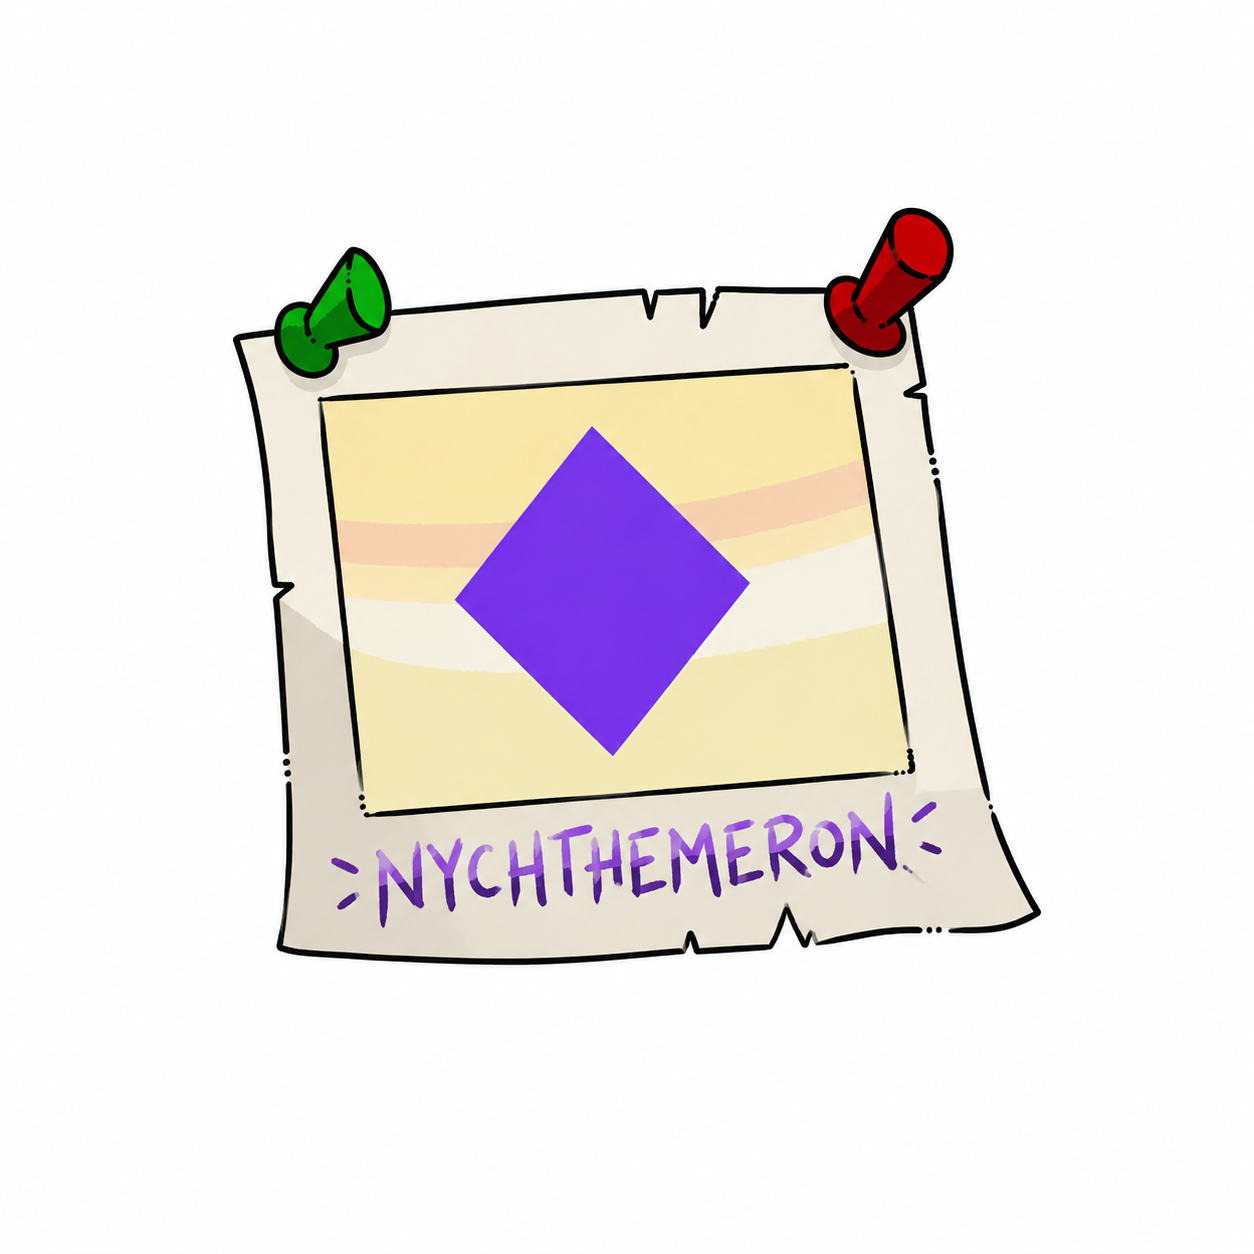
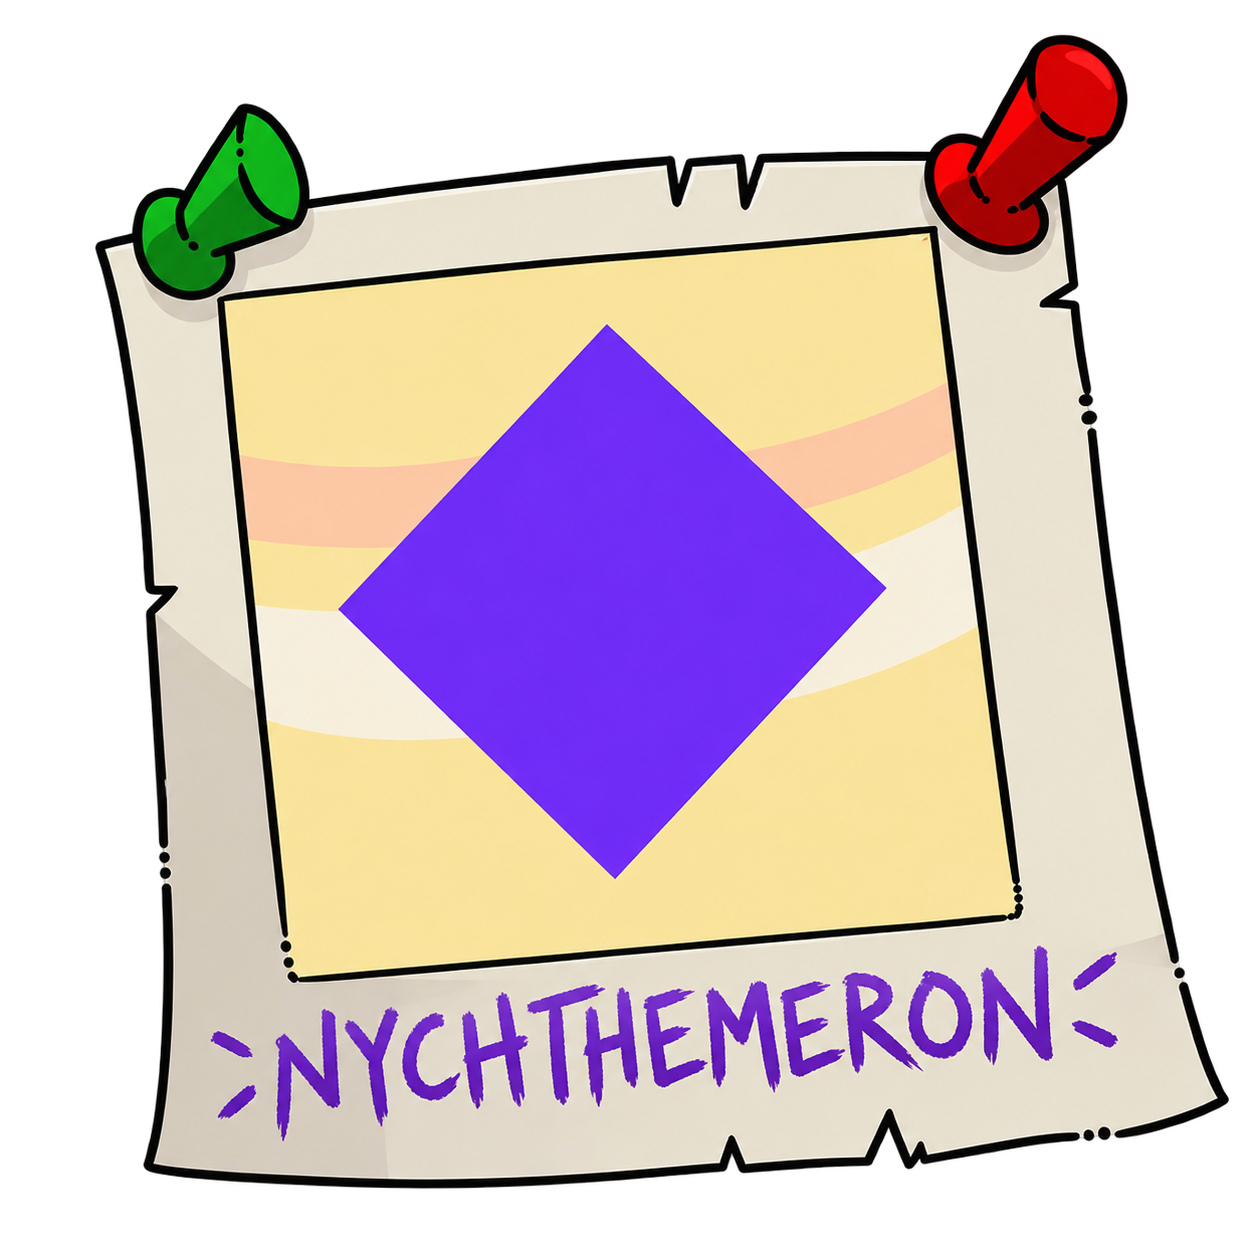
update readme

diff --git a/src/pages/AboutPage.tsx b/src/pages/AboutPage.tsx
@@ -293,7 +293,7 @@ const AboutPage = () => {
 
                             <footer className="mt-12 pt-8 border-t border-border flex flex-col md:flex-row justify-between items-center gap-4">
                                 <div className="text-xs text-muted-foreground">
-                                    {t("about.footerCreated")} <a href="https://iamovi.github.io/" target="_blank" rel="noopener noreferrer" className="text-primary font-bold hover:underline">Ovi ren</a>
+                                    {t("about.footerCreated")} <a href="https://iamovi.github.io/" target="_blank" rel="noopener noreferrer" className="text-primary font-bold hover:underline">Hasan Ovi</a>
                                 </div>
                                 <div className="flex gap-4 text-xs font-bold uppercase tracking-wider">
                                     <Link to="/terms" className="hover:text-primary transition-colors">{t("about.footerTerms")}</Link>

diff --git a/.github/README.md b/.github/README.md
@@ -1,13 +1,12 @@
 <div align="center">
-  <img src="https://raw.githubusercontent.com/iamovi/genjutsu/refs/heads/main/public/logo.png" width="100" />
-  <h1>genjutsu 幻術</h1>
+  <img src="https://raw.githubusercontent.com/iamovi/genjutsu/refs/heads/main/public/nychthemeron.png" width="100" />
+  <h1>nychthemeron</h1>
   <p><i>a social network for developers where everything disappears after 24 hours</i></p>
 
 <p>
-    <a href="https://genjutsu.xyz"><img src="https://img.shields.io/badge/live_app-genjutsu.xyz-9B78C2?style=flat-square" /></a>
-    <a href="https://app.genjutsu.xyz"><img src="https://img.shields.io/badge/download-TWA_Apk-9B78C2?style=flat-square" /></a>
-    <a href="https://github.com/iamovi/genjutsu/blob/main/LICENSE"><img src="https://img.shields.io/badge/license-AGPL--3.0-9B78C2?style=flat-square" /></a>
-    <a href="https://github.com/iamovi/genjutsu/releases/tag/v2.1.1"><img src="https://img.shields.io/badge/version-2.1.1-9B78C2?style=flat-square" /></a>
+    <a href="https://nychthemeron.vercel.app"><img src="https://img.shields.io/badge/live_app-nychthemeron.vercel.app-9B78C2?style=flat-square" /></a>
+    <a href="https://iamovi.github.io/nychthemeron"><img src="https://img.shields.io/badge/docs-iamovi.github.io/nychthemeron-9B78C2?style=flat-square" /></a>
+    <a href="https://github.com/iamovi/nychthemeron/blob/main/LICENSE"><img src="https://img.shields.io/badge/license-AGPL--3.0-9B78C2?style=flat-square" /></a>
   </p>
 </div>
 
@@ -23,7 +22,7 @@ share code, post updates, connect with other builders. no permanent history, no 
 
 ## why 24 hours?
 
-most social platforms accumulate posts forever. your late-night takes, half-baked ideas, and experimental code snippets stay online permanently. genjutsu is different.
+most social platforms accumulate posts forever. your late-night takes, half-baked ideas, and experimental code snippets stay online permanently. nychthemeron is different.
 
 every post, comment, and message automatically deletes after 24 hours. this means:
 
@@ -31,20 +30,18 @@ every post, comment, and message automatically deletes after 24 hours. this mean
 - the feed stays fresh and relevant
 - performance stays fast no matter how many users join
 
-> think snapchat meets twitter, but built for developers,but for casual users too!
+> think snapchat meets twitter, but built for developers — and casual users too!
 
 <br />
 
 
-## genjutsu feed api
+## nychthemeron feed api
 
 <img src="./api_preview.png" width="400" />
 
-**want to use public genjutsu feed posts in your own app or website?**
+**want to use public nychthemeron feed posts in your own app or website?**
 
-visit the docs site: [app.genjutsu.xyz/api](https://app.genjutsu.xyz/api)
-
-for a quick reference file in this repo, see [genjutsu-feed-api.md](./genjutsu-feed-api.md).
+visit the docs site: [iamovi.github.io/nychthemeron/api](https://iamovi.github.io/nychthemeron/api)
 
 <br />
 
@@ -56,7 +53,7 @@ want to contribute? see [CONTRIBUTING.md](CONTRIBUTING.md) for setup and guideli
 
 ## why open source?
 
-building a social network is hard. building it alone is harder. by making genjutsu open source:
+building a social network is hard. building it alone is harder. by making nychthemeron open source:
 
 - you can see exactly how your data is handled
 - you can contribute features you want
@@ -68,12 +65,12 @@ plus, the best developer tools are built by developers, for developers.
 
 ## license
 
-Copyright (C) 2026 Ovi ren (iamovi) (init.ovi@gmail.com)
+Copyright (C) 2026 Hasan Ovi (iamovi) (fornet.ovi@gmail.com)
 
-Licensed under GNU Affero General Public License as stated in the [LICENSE](https://github.com/iamovi/genjutsu/blob/main/LICENSE):
+Licensed under GNU Affero General Public License as stated in the [LICENSE](https://github.com/iamovi/nychthemeron/blob/main/LICENSE):
 
 ```text
-Copyright (C) 2026 Ovi ren (iamovi) (init.ovi@gmail.com)
+Copyright (C) 2026 Hasan Ovi (iamovi) (fornet.ovi@gmail.com)
 
 This program is free software: you can redistribute it and/or modify it under
 the terms of the GNU Affero General Public License as published by the Free
@@ -107,6 +104,6 @@ with this program. If not, see https://www.gnu.org/licenses/
 <div align="center">
   <i>developers who got tired of their old tweets haunting them.</i>
   <br /><br />
-  <img src="./fav.jpg" width="65" />
-  <p>genjutsu 幻術</p>
+  <img src="https://raw.githubusercontent.com/iamovi/genjutsu/refs/heads/main/public/Nychthemeron-logo.png" width="65" />
+  <p>nychthemeron</p>
 </div>
